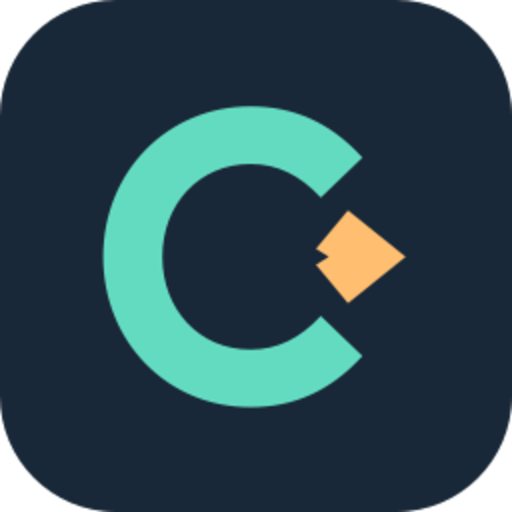
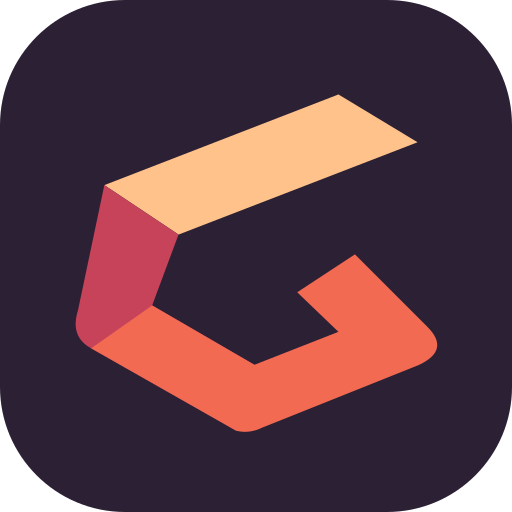
feat: adopt folded-ribbon Codora identity

diff --git a/web/src/brand.ts b/web/src/brand.ts
@@ -1,4 +1,4 @@
 import mark from "./assets/codora-mono.svg?raw";
 
 // Figma-exported original vector mark; follows monochrome UI ink in both modes.
-export const brandMark = mark.replaceAll("#171B22", "currentColor");
+export const brandMark = mark.replaceAll("#2B2034", "currentColor");

diff --git a/docs/clean-room.md b/docs/clean-room.md
@@ -125,3 +125,21 @@ Custom scrollbar rules use local palette variables and browser CSS pseudo-elemen
 with standard scrollbar-color/width fallback. Shared appearance persistence is
 original Rust code. The README screenshot is captured from our rebuilt Electron
 application with a disposable, original sample document.
+
+## Folded-ribbon identity (2026-10-18)
+
+The owner selected the original “Лента мысли” concept created in this session:
+https://www.figma.com/design/JyOLKqfWBwr8EMhrMNgNQa?node-id=6-2.
+Our own SVG geometry was drawn with the Figma Plugin API; no other editor assets
+or reference images were consulted. The approved icon (node 6:20) and monochrome
+mark (node 6:72) were exported as SVG. The desktop PNG is rasterized from that
+SVG at 512 × 512. Existing interface surfaces use the monochrome mark through
+currentColor in both appearance modes.
+
+Transparent README lockups (nodes 8:2 and 8:8) contain only the color mark and
+the word “codora”; the word is outlined, with no font downloads at runtime.
+The lettering uses Manrope SemiBold from Figma. Its SIL Open Font License 1.1
+notice is retained at docs/licenses/Manrope-OFL.txt, obtained from
+https://raw.githubusercontent.com/google/fonts/main/ofl/manrope/OFL.txt.
+No font binaries or new application dependencies are distributed. The original
+mark geometry remains under the repository license.

diff --git a/docs/parity.md b/docs/parity.md
@@ -135,3 +135,8 @@
 - Оригинальные векторные логотипы созданы в Figma: монохромный для интерфейса,
   цветной для значка окна, системного меню приложений и трея. Отображение трея
   зависит от окружения рабочего стола; Windows/macOS не проверены.
+- По выбору владельца используется знак «Лента мысли»: цветная иконка и
+  одноцветный знак в интерфейсе. В обоих README — прозрачный знак с надписью
+  `codora`, без слогана; цвет надписи выбирается для светлой или тёмной темы.
+  В пересобранном Electron проверены светлая и тёмная темы: все пути знака
+  используют один цвет интерфейса; скриншот README обновлён.

diff --git a/docs/licensing.md b/docs/licensing.md
@@ -51,6 +51,11 @@ Third-party materials retain their own licenses. Preserve
 [THIRD_PARTY_NOTICES.md](../THIRD_PARTY_NOTICES.md) and [license texts](licenses/).
 The project license does not replace dependency licenses.
 
+README logo lettering uses Manrope SemiBold, exported from Figma as outlined
+SVG paths. The [SIL Open Font License 1.1 notice](licenses/Manrope-OFL.txt) is
+retained; no Manrope font binary is bundled. The folded-ribbon mark is original
+Codora artwork, with provenance recorded in [clean-room.md](clean-room.md).
+
 `./scripts/package.sh` packages a committed source snapshot, build instructions,
 lockfiles, npm dependencies and vendored Rust crates alongside the executable.
 The source archive contains `SOURCE-BUILD.md` with rebuild instructions. Publish

diff --git a/README.ru.md b/README.ru.md
@@ -1,4 +1,9 @@
-# Codora
+<p align="center">
+  <picture>
+    <source media="(prefers-color-scheme: dark)" srcset="docs/branding/codora-dark.svg">
+    <img src="docs/branding/codora-light.svg" alt="codora" width="640">
+  </picture>
+</p>
 
 В файле Python нажмите **«Запустить»** или **F5**. Codora сначала сохранит скрипт, затем покажет вывод, ошибки, код выхода, поле ввода для `input()` и кнопку остановки. Нужен установленный Python 3 либо `.venv` в рабочей папке; Python не входит в поставку. Скрипт выполняется локально с правами пользователя.
 

diff --git a/README.md b/README.md
@@ -1,4 +1,9 @@
-# Codora
+<p align="center">
+  <picture>
+    <source media="(prefers-color-scheme: dark)" srcset="docs/branding/codora-dark.svg">
+    <img src="docs/branding/codora-light.svg" alt="codora" width="640">
+  </picture>
+</p>
 
 For Python files, click **Run** or press **F5**. Codora saves the script first, then shows output/errors, exit status, an input field for `input()` and a Stop button. Install Python 3 or create a `.venv` in the workspace; Python is not bundled. Scripts run locally with your user permissions.
 
